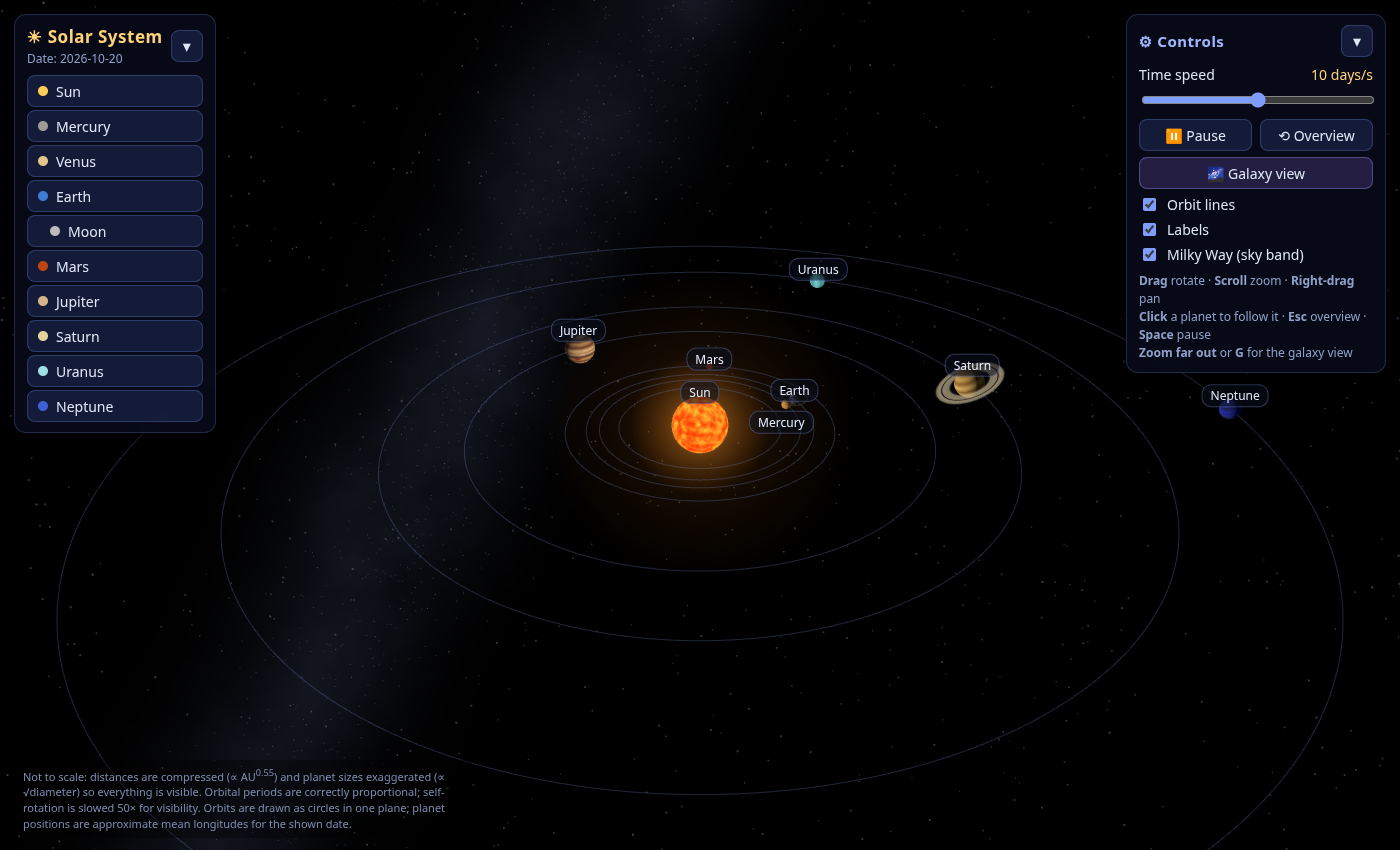
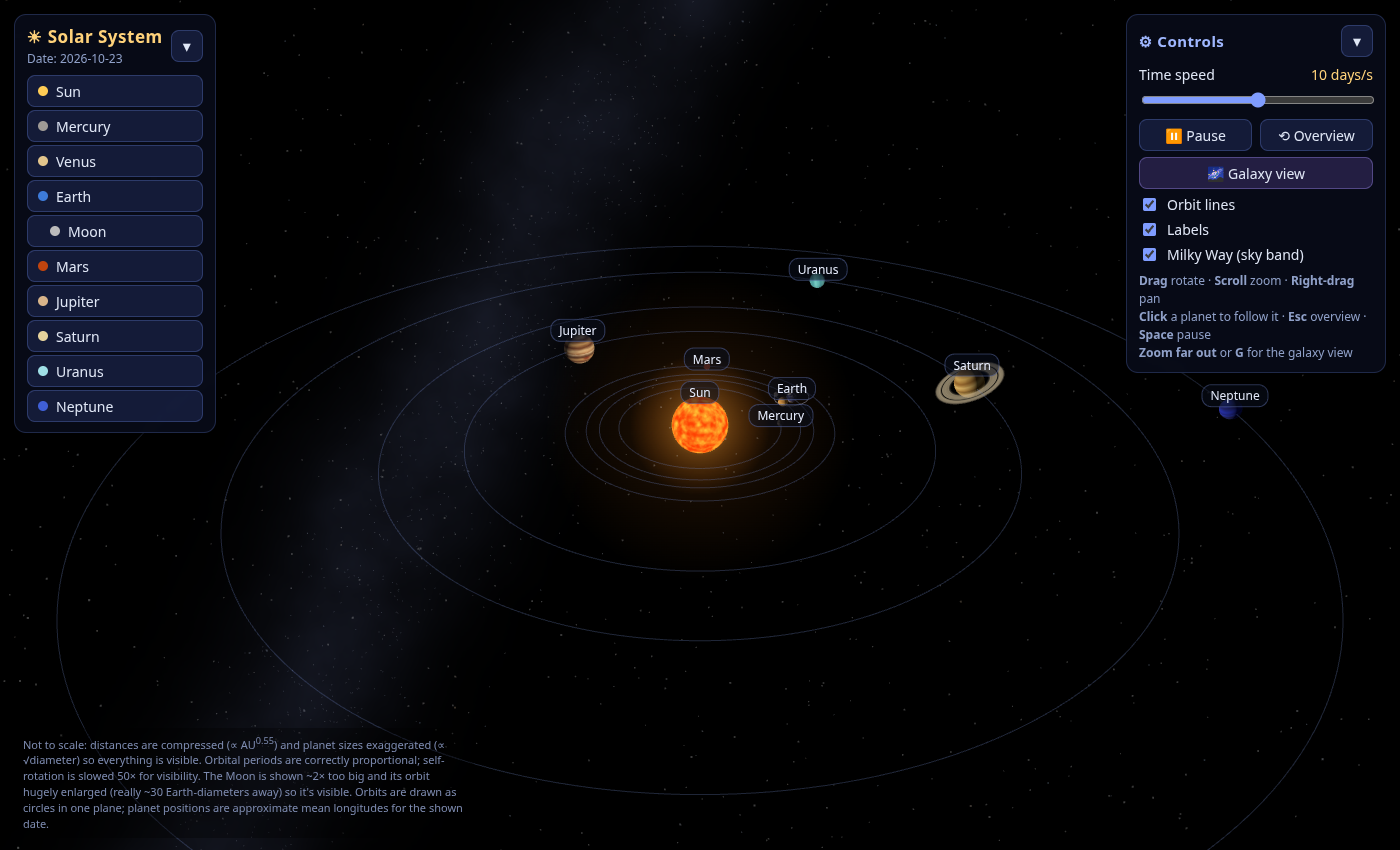
Make the Moon clearly visible orbiting Earth
- Larger Moon orbit (3.4x Earth radius) and size (0.5x Earth), brighter orbit ring tied to Orbit lines
- Earth focus frames the whole Moon orbit; Earth/Moon labels shown together when either is focused
- Picking checks recent positions (~400 ms) so fast movers like the Moon are easy to tap
- Scaling note, README, CHANGELOG, screenshots (adds screenshot-moon.png)

diff --git a/main.js b/main.js
@@ -343,18 +343,20 @@ for (const p of PLANETS) {
     tiltGroup.add(clouds);
     body.clouds = clouds;
 
-    // Moon
-    const moonDist = radius * 2.6;
+    // Moon — size and distance exaggerated so it's clearly visible: real Moon is 0.27× Earth's diameter and
+    // ~30 Earth diameters away (which at our compressed scale would sit inside Earth's sphere).
+    const moonDist = radius * 3.4;   // ≈ 3.2 units: clearly separated from Earth, still inside the Venus–Mars gap
+    body.moonDist = moonDist;
     const moonPivot = new THREE.Group();
     moonPivot.rotation.z = THREE.MathUtils.degToRad(5.1); // orbit inclination
     group.add(moonPivot);
-    const moonR = scaleRadius(MOON_INFO.diameter) * 0.8;
+    const moonR = radius * 0.5;      // shown at ~half Earth's size (real: 0.27×) so it reads at overview zoom
     const moonGroup = new THREE.Group();
     moonPivot.add(moonGroup);
     const moonMesh = new THREE.Mesh(new THREE.SphereGeometry(moonR, 32, 24),
-      new THREE.MeshStandardMaterial({ map: TEXTURES.Moon(), roughness: 1 }));
+      new THREE.MeshStandardMaterial({ map: TEXTURES.Moon(), roughness: 1, emissive: 0x1a1a1f })); // faint emissive: night side not pitch black
     moonGroup.add(moonMesh);
-    moonPivot.add(orbitLine(moonDist, 0x9aa6c8, 0.22));
+    moonPivot.add(orbitLine(moonDist, 0xb8c4e6, 0.4));  // faint ring around Earth; follows Earth; toggled with "Orbit lines"
     const moonBody = { name: 'Moon', info: MOON_INFO, group: moonGroup, mesh: moonMesh, radius: moonR, moonDist, isMoon: true };
     moonBody.labelEl = addLabel(moonGroup, 'Moon', moonR + 0.5, true);
     addPickSphere(moonGroup, moonR * 0.8, moonBody);
@@ -519,7 +521,7 @@ function showInfo(b) {
 // ---------------------------------------------------------------------------
 const raycaster = new THREE.Raycaster();
 const pointer = new THREE.Vector2();
-const _proj = new THREE.Vector3();
+const _proj = new THREE.Vector3(), _hist = new THREE.Vector3();
 let hovered = null;
 
 // Picking: every body gets a score = (screen distance from tap to its center) / (its on-screen radius + finger slop).
@@ -534,13 +536,18 @@ function pick(clientX, clientY, slopPx) {
   let best = null, bestScore = Infinity;
   const fovScale = r.height / 2 / Math.tan(THREE.MathUtils.degToRad(camera.fov) / 2);
   for (const b of bodies) {
-    b.group.getWorldPosition(_proj);
-    const dist = _proj.distanceTo(camera.position);
-    _proj.project(camera);
-    if (_proj.z > 1) continue; // behind camera
-    const sx = (_proj.x + 1) / 2 * r.width + r.left, sy = (1 - _proj.y) / 2 * r.height + r.top;
-    const screenR = (b.radius / dist) * fovScale;
-    const centerDist = Math.hypot(sx - clientX, sy - clientY);
+    // Test the body's current position AND where it was over the last ~400 ms: fast movers (the Moon laps Earth
+    // every ~2.7 s at default speed) have moved on by the time a finger lands, so tapping where you saw it still works.
+    let centerDist = Infinity, screenR = 0;
+    for (const wp of [b.group.getWorldPosition(_hist), ...(b.hist || []).map((h) => h.p)]) {
+      const dist = wp.distanceTo(camera.position);
+      _proj.copy(wp).project(camera);
+      if (_proj.z > 1) continue; // behind camera
+      const sx = (_proj.x + 1) / 2 * r.width + r.left, sy = (1 - _proj.y) / 2 * r.height + r.top;
+      const d = Math.hypot(sx - clientX, sy - clientY);
+      if (d < centerDist) { centerDist = d; screenR = (b.radius / dist) * fovScale; }
+    }
+    if (centerDist === Infinity) continue;
     if (centerDist > screenR + slopPx && b !== rayBody) continue;
     const score = centerDist / (screenR + slopPx) * (b === rayBody ? 0.8 : 1);
     if (score < bestScore) { bestScore = score; best = b; }
@@ -627,12 +634,18 @@ function declutterLabels() {
     const lw = (lab._w ||= lab.offsetWidth || lab.textContent.length * 7 + 18), lh = (lab._h ||= lab.offsetHeight || 20);
     const rect = [cx - lw / 2 - 2, cy - lh / 2 - 2, cx + lw / 2 + 2, cy + lh / 2 + 2];
     const hit = placed.some((p) => rect[0] < p[2] && rect[2] > p[0] && rect[1] < p[3] && rect[3] > p[1]);
-    const forced = b === focused || b === hovered;
+    // keep Earth+Moon labels together when either is focused
+    const forced = b === focused || b === hovered || (focused && ((focused.name === 'Earth' && b.isMoon) || (focused.isMoon && b.name === 'Earth')));
     lab.classList.toggle('overlap', hit && !forced);
     if (!hit || forced) placed.push(rect);
   }
 }
-function prio(b) { return b === focused ? 1e6 : b === hovered ? 1e5 : b.name === 'Sun' ? 1e4 : b.radius; }
+function prio(b) {
+  if (b === focused) return 1e6;
+  if (b === hovered) return 1e5;
+  if (focused && ((focused.name === 'Earth' && b.isMoon) || (focused.isMoon && b.name === 'Earth'))) return 5e4;
+  return b.name === 'Sun' ? 1e4 : b.radius;
+}
 
 // ---------------------------------------------------------------------------
 // Camera focus / follow with smooth transitions
@@ -646,7 +659,8 @@ const UP = new THREE.Vector3(0, 1, 0);
 function bodyWorldPos(b, out) { return b.group.getWorldPosition(out); }
 function focusOffset(b, out) {
   const p = bodyWorldPos(b, tmp2);
-  const dist = b.name === 'Sun' ? 32 : b.radius * 6 + 2.5;
+  // Earth: back off far enough that the whole Moon orbit is in frame
+  const dist = b.name === 'Sun' ? 32 : b.name === 'Earth' ? b.moonDist * 3.4 : b.radius * 6 + 2.5;
   if (p.lengthSq() < 1e-6) out.set(0, 0.45, 1);
   else {
     // start from the outward direction, swing ~110° around toward the Sun so we see the lit (day) side
@@ -792,12 +806,25 @@ function updateBodies() {
   }
 }
 
+// short position history per body (used by picking so fast-moving targets are easy to tap)
+function recordHistory() {
+  const now = performance.now();
+  for (const b of bodies) {
+    const h = (b.hist ||= []);
+    const last = h[h.length - 1];
+    if (last && now - last.t < 30) continue;          // sample ~every 30 ms
+    h.push({ t: now, p: b.group.getWorldPosition(new THREE.Vector3()) });
+    while (h.length && now - h[0].t > 400) h.shift();
+  }
+}
+
 function animate() {
   requestAnimationFrame(animate);
   const dt = Math.min(clock.getDelta(), 0.1);
   if (!paused) simTime += daysPerSecond * dt * DAY_MS;
   updateBodies();
   scene.updateMatrixWorld();
+  recordHistory();
   updateCamera(dt);
   controls.update();
   // zoom-based switching between views

diff --git a/index.html b/index.html
@@ -92,7 +92,7 @@
   <!-- Bottom-left: scaling note -->
   <div id="scale-note">
     Not to scale: distances are compressed (∝ AU<sup>0.55</sup>) and planet sizes exaggerated (∝ √diameter) so everything is visible.
-    Orbital periods are correctly proportional; self-rotation is slowed 50× for visibility. Orbits are drawn as circles in one plane;
+    Orbital periods are correctly proportional; self-rotation is slowed 50× for visibility. The Moon is shown ~2× too big and its orbit hugely enlarged (really ~30 Earth-diameters away) so it's visible. Orbits are drawn as circles in one plane;
     planet positions are approximate mean longitudes for the shown date.
   </div>
 

diff --git a/CHANGELOG.md b/CHANGELOG.md
@@ -1,5 +1,14 @@
 # Changelog
 
+## 2026-10-09: Moon visibility update
+
+### Changed
+- **The Moon is now clearly visible orbiting Earth.** Its orbit radius went from 2.6× to 3.4× Earth's radius (~3.2 units), and it's drawn at half Earth's size. Both are exaggerated on purpose; the real Moon is 0.27× Earth's diameter and ~30 Earth-diameters away, which at this compressed scale would put it inside Earth. The scaling note now says so.
+- The Moon has a slightly brighter orbit ring around Earth. It follows Earth and is toggled with "Orbit lines".
+- **Focusing Earth** now pulls the camera back far enough to show the whole Moon orbit. Earth's and the Moon's labels are always shown together when either one is focused. In the far overview the Moon label can still hide behind Earth's, and it comes back as you zoom in.
+- The Moon has a faint glow so its night side isn't pitch black. It still always shows the same face to Earth, and it laps Earth in ~2.7 s at the default 10 days/s.
+- **Easier tapping of fast-moving bodies:** picking also checks where each body was over the last ~400 ms. So tapping the Moon (or anything moving quickly on screen) where you just saw it still selects it, on iPad and desktop.
+
 ## 2026-10-09: Milky Way update
 
 ### Added

diff --git a/README.md b/README.md
@@ -6,7 +6,7 @@ An interactive 3D model of the solar system that runs in your browser. It's buil
 
 ## Features
 - The Sun (glowing, and it's the light source) plus all 8 planets in the right order, with correctly proportional orbital periods
-- Real axial tilts and day lengths (spin is slowed 50× so you can see it), Saturn's and Uranus's rings, and Earth's Moon and clouds
+- Real axial tilts and day lengths (spin is slowed 50× so you can see it), Saturn's and Uranus's rings, Earth's clouds, and the Moon clearly orbiting Earth with its own orbit ring
 - Click or tap any planet to fly to it and follow it, with an info panel: diameter, distance from the Sun (AU), orbital period, day length and a fun fact
 - Time speed slider (paused up to about 2.7 years per second), checkboxes for orbit lines and labels, and collapsible panels
 - **Milky Way**: a glowing galactic band across the sky, tilted realistically to the planets' orbital plane (toggle it in Controls)
